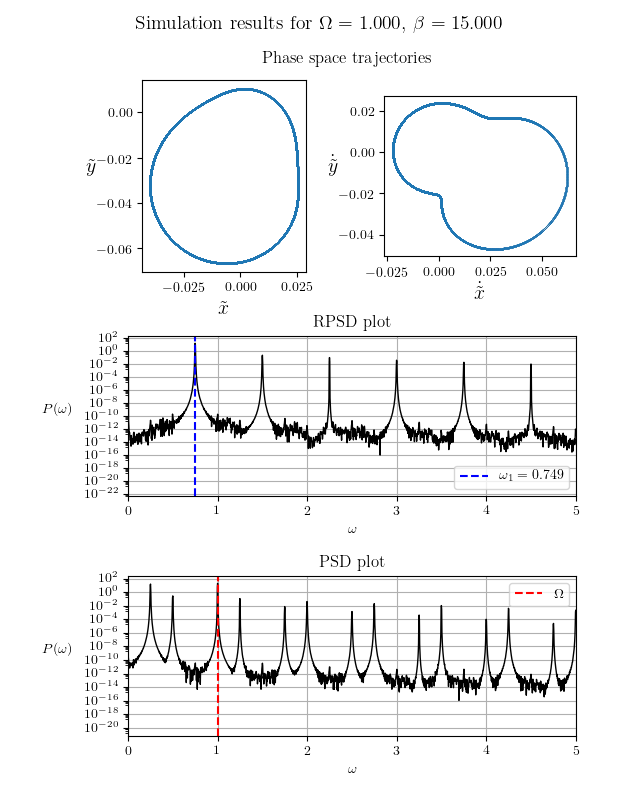
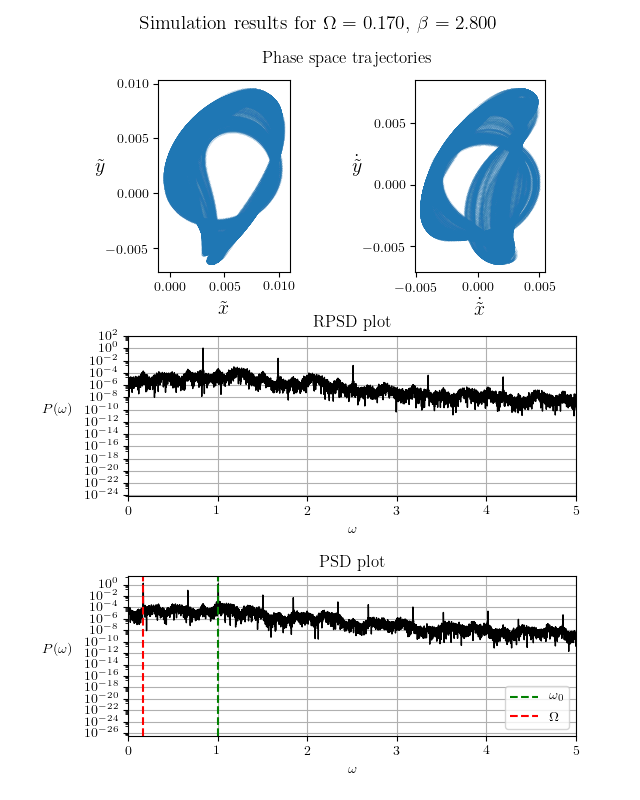
unknown minor changes

diff --git a/multi_simulation.py b/multi_simulation.py
@@ -40,18 +40,17 @@ def period_at(B,c):
     s = simulation.Simulation()
     s.B = B
     s.c = c
-    s.k = 0
-    s.Om = 1
+    s.Om = 0.17
     s.T = 2**12
     s.solve()
     s.find_period()
     return (s.check_periodicity(), s.Tp)
 
-N = 100
+N = 81
 M = 1
 
-B_range = (14,16)
-c_range = (50,50)
+B_range = (2.720, 2.800)
+c_range = (0.05,0.05)
 
 B_set = np.linspace(*B_range,N)
 c_set = np.linspace(*c_range,M)
